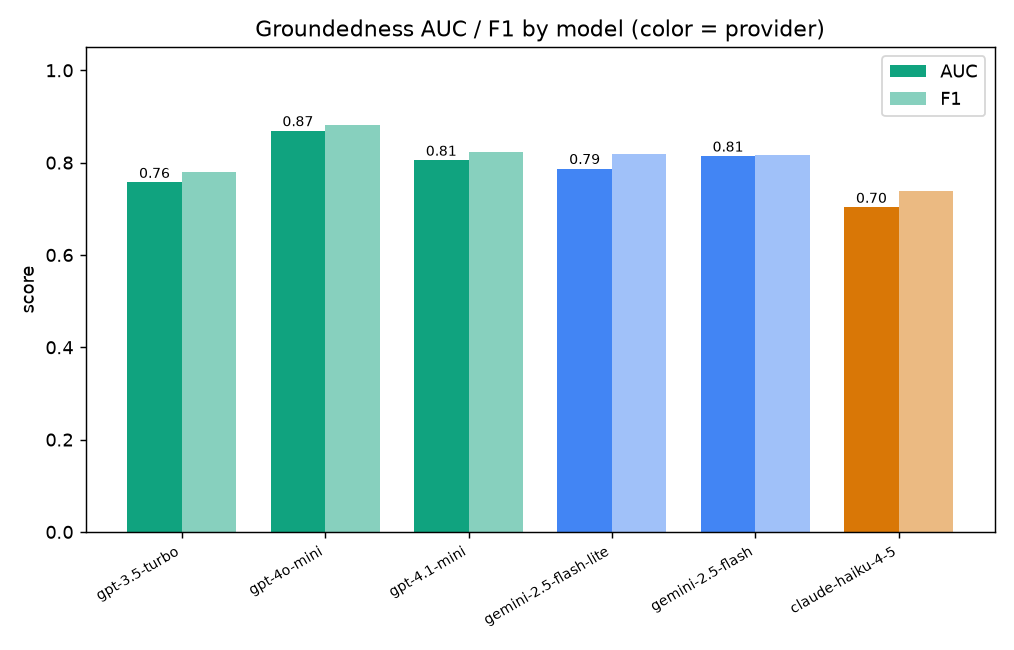
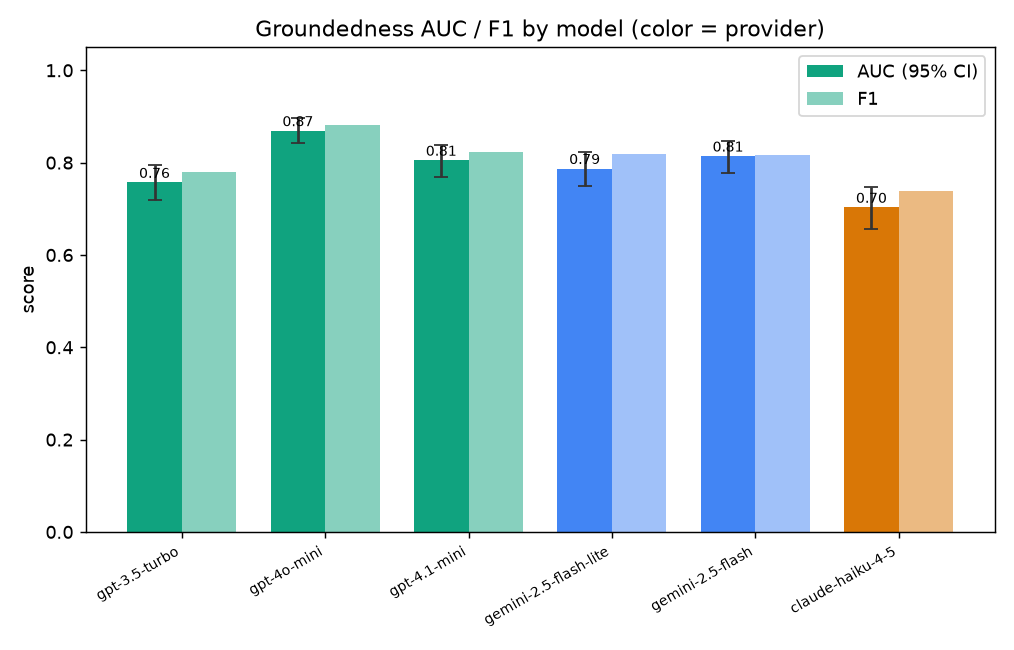
Add bootstrap confidence intervals and correct significance claims
Error bars (95% CI) on the comparison chart; drop the flash vs flash-lite claim that is within noise (P=0.84); clarify the scores measure detector skill on synthetic HaluEval, not real-world hallucination rates.

Changed region(s): [[0.7949, 0.0923, 0.9783, 0.1846], [0.7032, 0.2154, 0.7337, 0.2769], [0.428, 0.2462, 0.4586, 0.2769]]

diff --git a/benchmarks/plot_results.py b/benchmarks/plot_results.py
@@ -45,6 +45,17 @@ def load() -> list:
     return out
 
 
+def auc_ci(data, rng, B=2000):
+    """Bootstrap 95% CI for each model's AUC; yields (lo, hi, auc)."""
+    from benchmarks import metrics
+    for r in data:
+        s = np.array(r["scores"]); y = np.array(r["labels"]); n = len(y)
+        boot = [metrics.roc_auc(s[i].tolist(), y[i].tolist())
+                for i in (rng.integers(0, n, n) for _ in range(B))]
+        lo, hi = np.percentile(boot, [2.5, 97.5])
+        yield lo, hi, r["auc"]
+
+
 def roc_points(scores, labels):
     """Sweep thresholds high->low, return (fpr, tpr) arrays."""
     s = np.array(scores)
@@ -99,14 +110,20 @@ def main():
     fig.tight_layout()
     fig.savefig(PLOTS / "distributions.png", dpi=130); plt.close(fig)
 
-    # 3. AUC / F1 bars grouped by model
+    # 3. AUC / F1 bars grouped by model, with bootstrap 95% CI error bars on AUC
     labels = [short(r["model"]) for r in data]
     auc = [r["auc"] for r in data]
     f1 = [r["f1"] for r in data]
     colors = [PROVIDER_COLOR[provider(r["model"])] for r in data]
+    rng = np.random.default_rng(0)
+    yerr = [[], []]
+    for r in auc_ci(data, rng):
+        lo, hi, a = r
+        yerr[0].append(a - lo); yerr[1].append(hi - a)
     x = np.arange(len(data)); w = 0.38
     plt.figure(figsize=(max(7, len(data) * 1.3), 5))
-    plt.bar(x - w / 2, auc, w, label="AUC", color=colors)
+    plt.bar(x - w / 2, auc, w, label="AUC (95% CI)", color=colors,
+            yerr=yerr, capsize=4, ecolor="#333")
     plt.bar(x + w / 2, f1, w, label="F1", color=colors, alpha=0.5)
     for i, (a, f) in enumerate(zip(auc, f1)):
         plt.text(i - w / 2, a + 0.01, f"{a:.2f}", ha="center", fontsize=8)

diff --git a/README.md b/README.md
@@ -266,20 +266,28 @@ on the **same 500 HaluEval QA cases**:
   <img src="benchmarks/plots/distributions.png" width="430"/>
 </p>
 
-What the data actually says (nothing here is tuned to a target):
+What the data actually says — tested for significance with a 2000-sample
+bootstrap (95% CIs are the error bars above), nothing tuned to a target:
 
-- **`gpt-4o-mini` leads the field** (AUC 0.87) and shows the cleanest score
-  separation — hallucinated answers collapse to 0, grounded ones to 1.
-- **Newer ≠ better on a narrow task.** Within OpenAI, `gpt-4o-mini` (2024) beats
-  the *later* `gpt-4.1-mini` (2025) at faithfulness detection.
-- **Size helps within a generation.** Google's larger `gemini-2.5-flash` (0.814)
-  edges its `flash-lite` sibling (0.787).
+- **`gpt-4o-mini` leads the field** (AUC 0.87, CI [0.84, 0.90]) with the cleanest
+  score separation — hallucinated answers collapse to 0, grounded ones to 1.
+- **Newer ≠ better on a narrow task.** `gpt-4o-mini` (2024) beats the *later*
+  `gpt-4.1-mini` (2025) — and the gap **is** real (paired bootstrap P=1.00).
 - **`claude-haiku-4-5` trails** (AUC 0.70) with high recall / low precision: it
-  *over-trusts* answers, calling hallucinations grounded. A behavioral signal,
-  not a bug — and exactly the kind of thing the harness exists to surface.
+  *over-trusts* answers, calling hallucinations grounded — real (P=0.97 vs
+  gpt-3.5-turbo). A behavioral signal, not a bug; exactly what the harness exists
+  to surface.
+- **What is _not_ significant:** `gemini-2.5-flash` vs `flash-lite` (0.814 vs
+  0.787) sits inside the noise (P=0.84) — at n=500 we can't call that a real
+  difference, so we don't.
 
-AUCs land in the **0.70–0.87** band, consistent with the range reported for
-LLM-based detectors on HaluEval — realistic scores, not saturated 1.0s.
+**What these numbers are (and aren't).** They measure how well each model, used
+as a *judge*, separates grounded from hallucinated answers — i.e. each model's
+skill as a faithfulness **detector**, not how much it itself hallucinates. The
+hallucinations in HaluEval are model-generated (synthetic), which the literature
+shows is *easier* than organic, real-world hallucinations; expect lower AUC on
+production data (e.g. RAGTruth). AUCs land in the **0.70–0.87** band, consistent
+with published LLM-detector results on HaluEval — realistic, not saturated.
 
 Reproduce:
 
